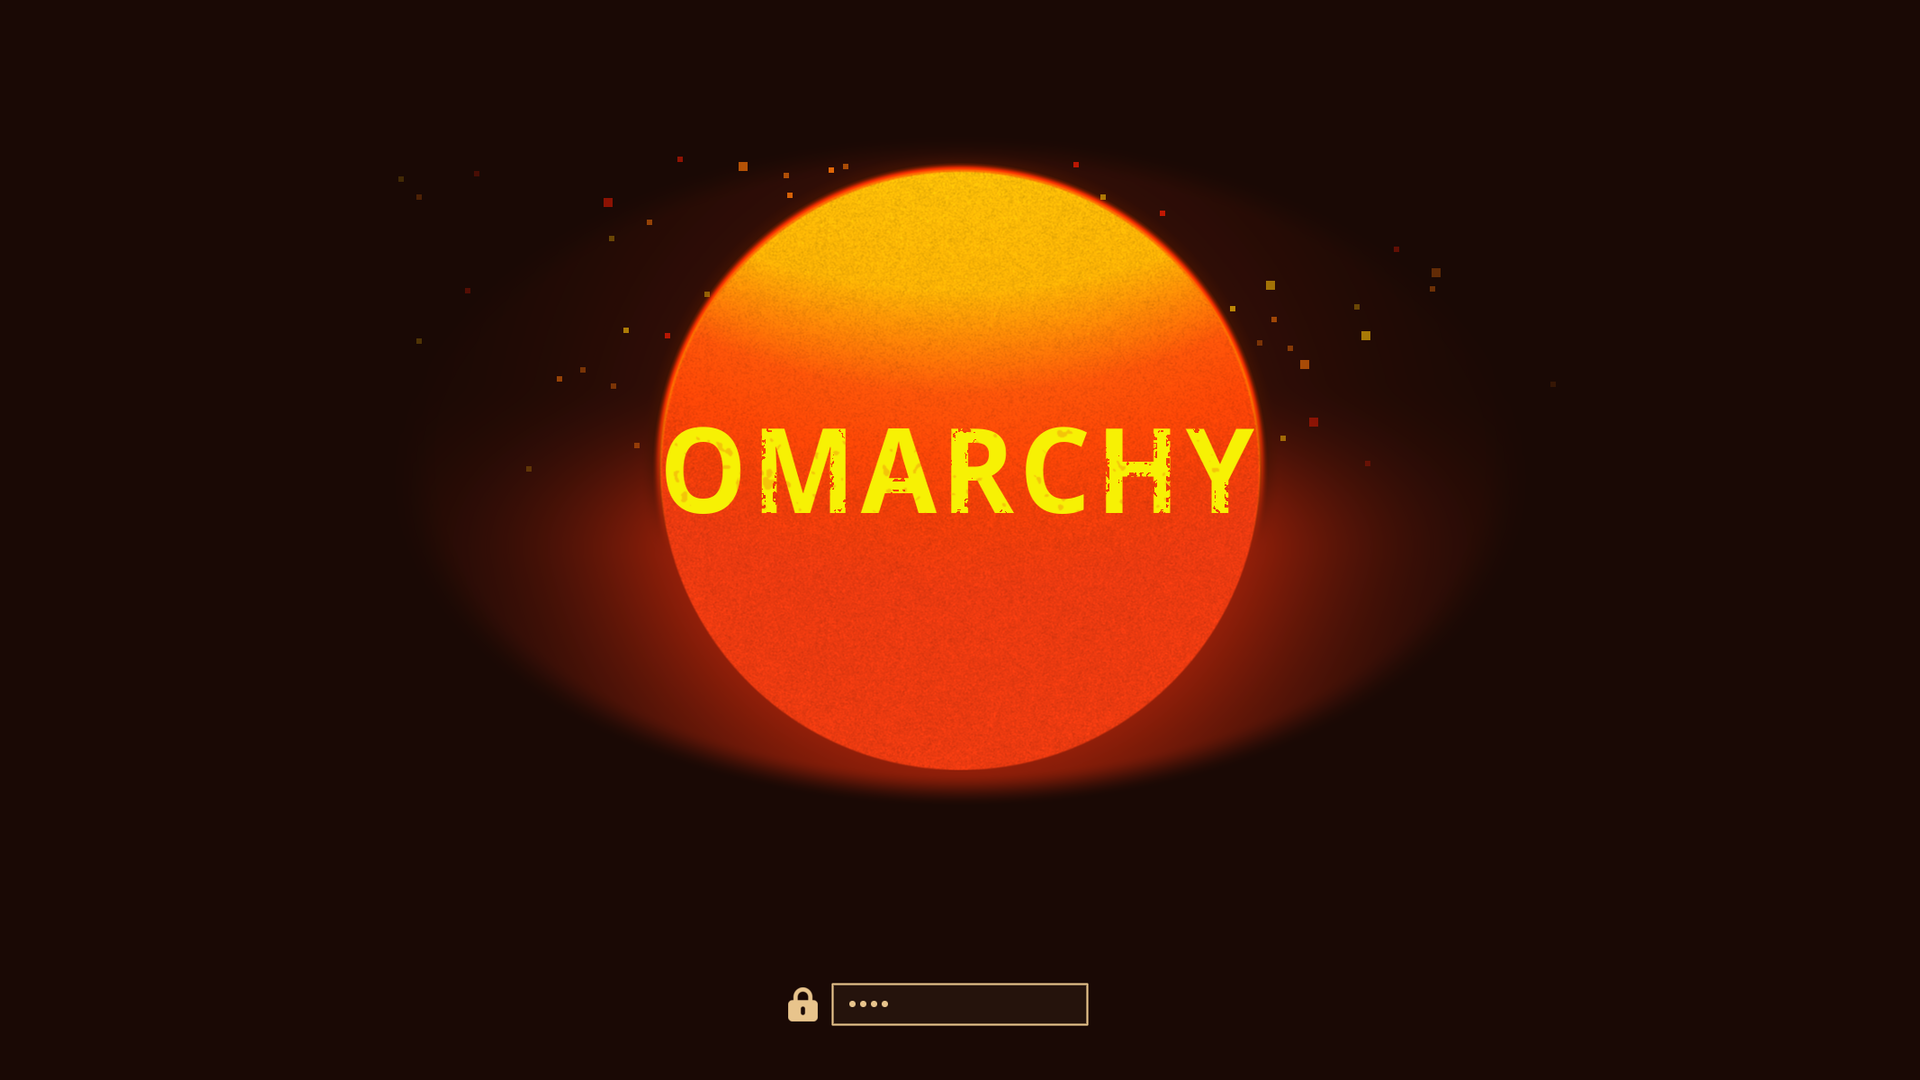
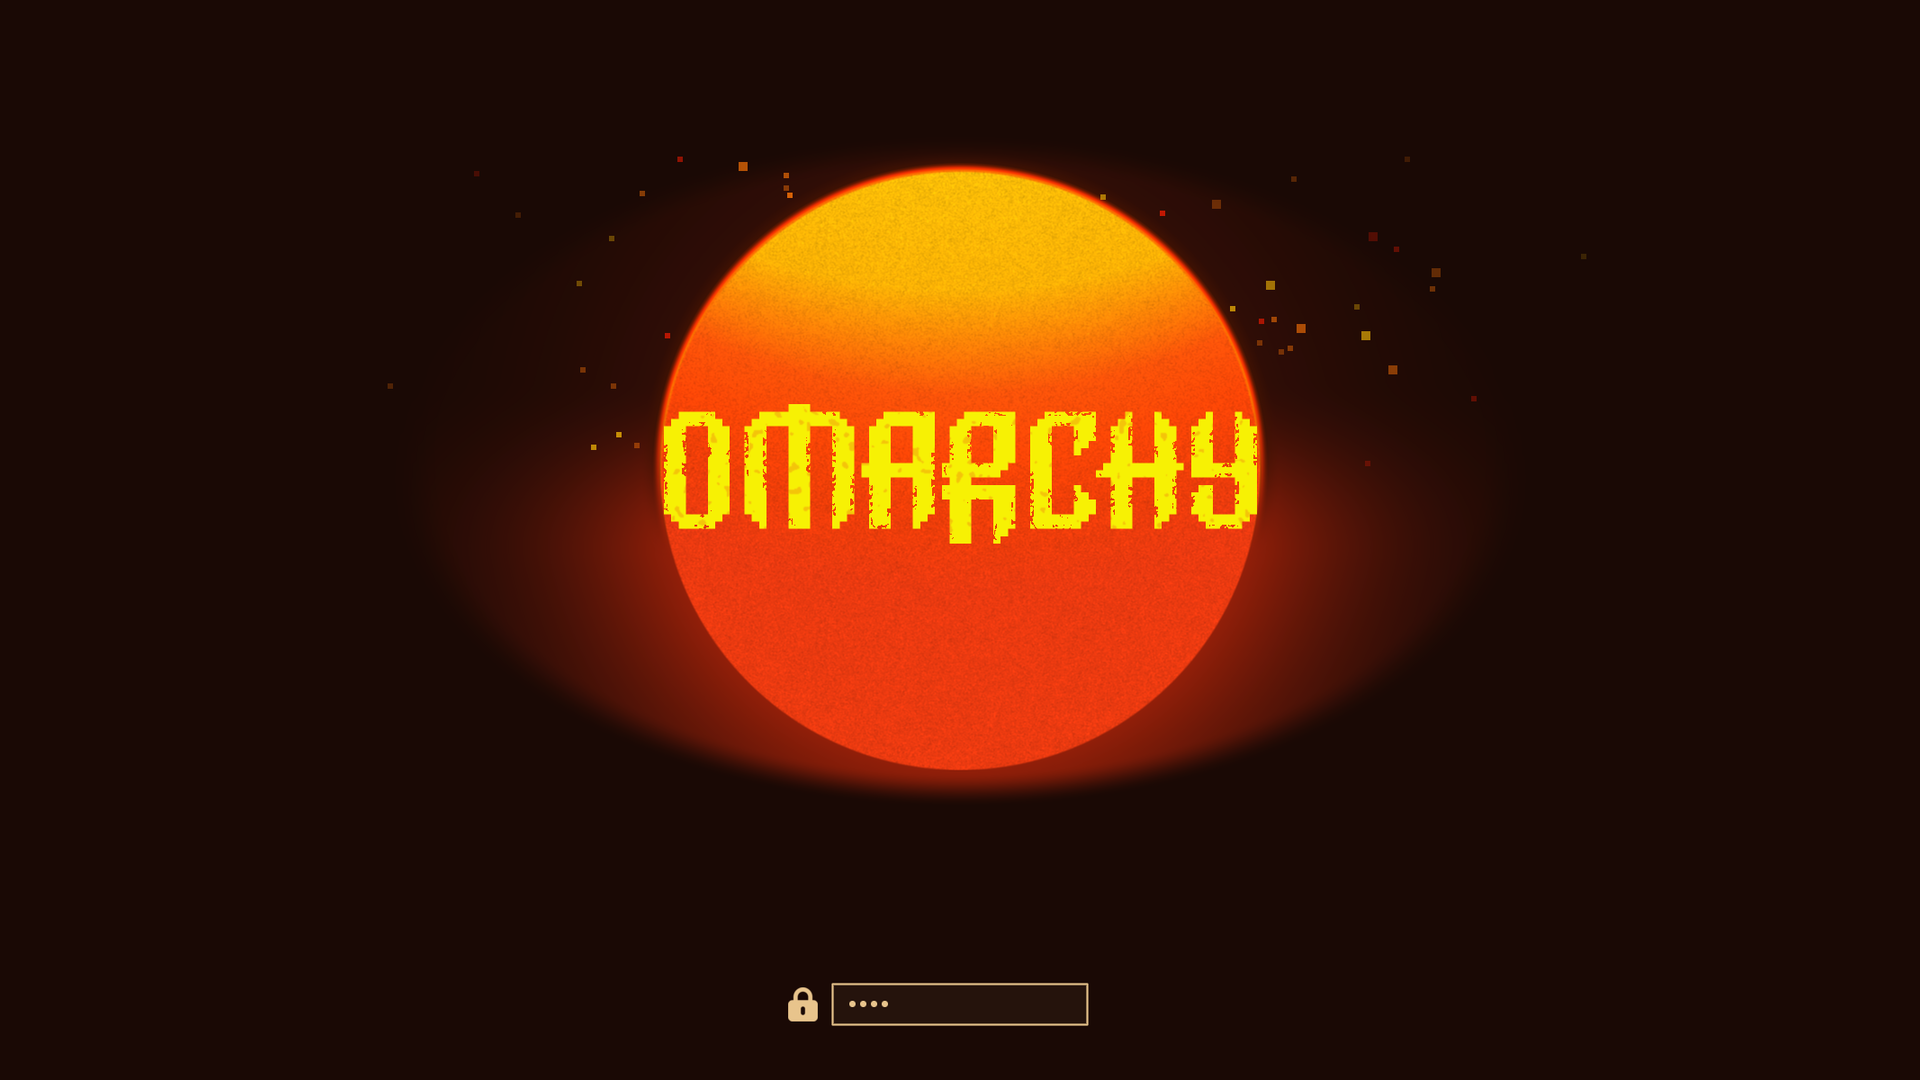
Letter the sun unlock screen with Omarchy's ASCII wordmark
The title on the sun is now Omarchy's ASCII wordmark (logo.txt) rather than
Noto Sans, with the poster title's treatment kept: neon lemon, amber
stains and chipped edges, at the same width on the sun. lettering.py takes
--wordmark to draw the art as square pixels, one per half character cell,
enlarged with hard edges and averaged down to the exact size so the
squares meet without seams. The font version is still the default.
verify-sun.py still passes.

Changed region(s): [[0.3438, 0.3667, 0.6562, 0.5194]]

diff --git a/tools/lettering.py b/tools/lettering.py
@@ -1,7 +1,11 @@
 #!/usr/bin/env python3
 """Draws the title in the style of the Sinners poster's title, as a transparent PNG.
 
-usage: lettering.py <out.png> [workdir] [word] [pointsize]      (word: OMARCHY, pointsize: 175)
+usage: lettering.py <out.png> [workdir] [word] [pointsize] [--wordmark LOGO.TXT]      (word: OMARCHY, pointsize: 175)
+
+With --wordmark, the letters are Omarchy's ASCII wordmark (/usr/share/omarchy/logo.txt) instead of the font, and word is
+ignored. Each character of the art is one column of the grid and two rows: a full block fills both, a half block one. The
+pixels are square, a column is pointsize/16.6 px wide, and the art keeps its own proportions; the treatment below is the same.
 
 Original work: Noto Sans Bold plus a procedural treatment, not the studio's logo. The style comes from measuring
 the poster's title: clean straight letters on one baseline, stems 0.195 of the cap height, torn-paint chips only
@@ -9,11 +13,17 @@ on the axis-aligned edges (stem sides and ends) while diagonals stay razor-clean
 neon lemon. Every size below is given for pointsize 175 and scales with the pointsize. It is deterministic.
 """
 import os, subprocess, sys, tempfile
-OUT = sys.argv[1]
-WORK = sys.argv[2] if len(sys.argv) > 2 else tempfile.mkdtemp(prefix='lettering.')
+args = sys.argv[1:]
+WORDMARK = None
+if '--wordmark' in args:
+    i = args.index('--wordmark')
+    WORDMARK = args[i + 1]
+    del args[i:i + 2]
+OUT = args[0]
+WORK = args[1] if len(args) > 1 else tempfile.mkdtemp(prefix='lettering.')
 os.makedirs(WORK, exist_ok=True)
-WORD = sys.argv[3] if len(sys.argv) > 3 else 'OMARCHY'
-PT = int(sys.argv[4]) if len(sys.argv) > 4 else 175
+WORD = args[2] if len(args) > 2 else 'OMARCHY'
+PT = int(args[3]) if len(args) > 3 else 175
 FONT = '/usr/share/fonts/noto/NotoSans-Bold.ttf'      # Noto Sans Bold, SIL Open Font License
 if not os.path.exists(FONT):
     sys.exit(f'lettering: font not found: {FONT} (install the noto-fonts package)')
@@ -40,18 +50,43 @@ def tail_threshold(img, frac):
         acc += counts.get(v, 0)
         if acc / total >= frac: return 100 * v / 255
     return 100.0
+def wordmark_grid(path):
+    """The ASCII wordmark as a plain PBM, one pixel per half character cell (black = ink, as PBM has it), and its size."""
+    if not os.path.exists(path):
+        sys.exit(f'lettering: wordmark not found: {path}')
+    lines = open(path, encoding='utf-8').read().rstrip('\n').split('\n')
+    halves = {'\u2588': (0, 1), '\u2580': (0,), '\u2584': (1,)}     # full block, upper half, lower half
+    cols, rows = max(map(len, lines)), 2 * len(lines)
+    grid = [[0] * cols for _ in range(rows)]
+    for r, line in enumerate(lines):
+        for c, ch in enumerate(line):
+            for h in halves.get(ch, ()):
+                grid[2 * r + h][c] = 1
+    if not any(map(any, grid)):
+        sys.exit(f'lettering: no block characters in {path}')
+    return f'P1\n{cols} {rows}\n' + '\n'.join(' '.join(map(str, row)) for row in grid) + '\n', cols, rows
+
 # 1. straight letters: same baseline, no rotation, no jitter
-adv = []
-for i, c in enumerate(WORD):
-    m('-background','none','-font',FONT,'-pointsize',str(PT),'-fill','white','label:'+c,w(f'g{i}.png'))
-    adv.append(tuple(size(w(f'g{i}.png'))))
-H = adv[0][1]; PAD = 30; track = round(TRACK * U)
-total = sum(a for a, _ in adv) + track * (len(WORD) - 1) + 2 * PAD
-cmd = ['-size', f'{total}x{H+2*PAD}', 'xc:black']; x = PAD
-for i in range(len(WORD)):
-    cmd += [w(f'g{i}.png'), '-geometry', f'+{x}+{PAD}', '-compose', 'Over', '-composite']; x += adv[i][0] + track
-m(*cmd, '-colorspace','Gray','-alpha','off','-trim','+repage','-bordercolor','black','-border',str(round(20*U)),
-  '-resize', f'{XSCALE}x100%!', w('word.png'))
+if WORDMARK:
+    pbm, cols, rows = wordmark_grid(WORDMARK)
+    open(w('wordmark.pbm'), 'w').write(pbm)
+    cell = PT / 16.6
+    # Enlarge with hard edges, then average down to the exact (fractional) size: square pixels, clean edges, no seams.
+    m(w('wordmark.pbm'), '-negate', '-filter', 'Point', '-resize', '1600%', '-filter', 'Box',
+      '-resize', f'{round(cols * cell)}x{round(rows * cell)}!', '-colorspace','Gray','-alpha','off',
+      '-bordercolor','black','-border',str(round(20*U)), w('word.png'))
+else:
+    adv = []
+    for i, c in enumerate(WORD):
+        m('-background','none','-font',FONT,'-pointsize',str(PT),'-fill','white','label:'+c,w(f'g{i}.png'))
+        adv.append(tuple(size(w(f'g{i}.png'))))
+    H = adv[0][1]; PAD = 30; track = round(TRACK * U)
+    total = sum(a for a, _ in adv) + track * (len(WORD) - 1) + 2 * PAD
+    cmd = ['-size', f'{total}x{H+2*PAD}', 'xc:black']; x = PAD
+    for i in range(len(WORD)):
+        cmd += [w(f'g{i}.png'), '-geometry', f'+{x}+{PAD}', '-compose', 'Over', '-composite']; x += adv[i][0] + track
+    m(*cmd, '-colorspace','Gray','-alpha','off','-trim','+repage','-bordercolor','black','-border',str(round(20*U)),
+      '-resize', f'{XSCALE}x100%!', w('word.png'))
 W, Hh = size(w('word.png'))
 def noise(seed, blur): return ['-seed',str(seed),'-size',f'{W}x{Hh}','xc:gray50','+noise','Random','-colorspace','Gray','-blur',f'0x{blur*U:.2f}','-auto-level']
 # 2. ragged edges: erosion confined to a thin band along the edges, and gated into patches so most edges stay clean
